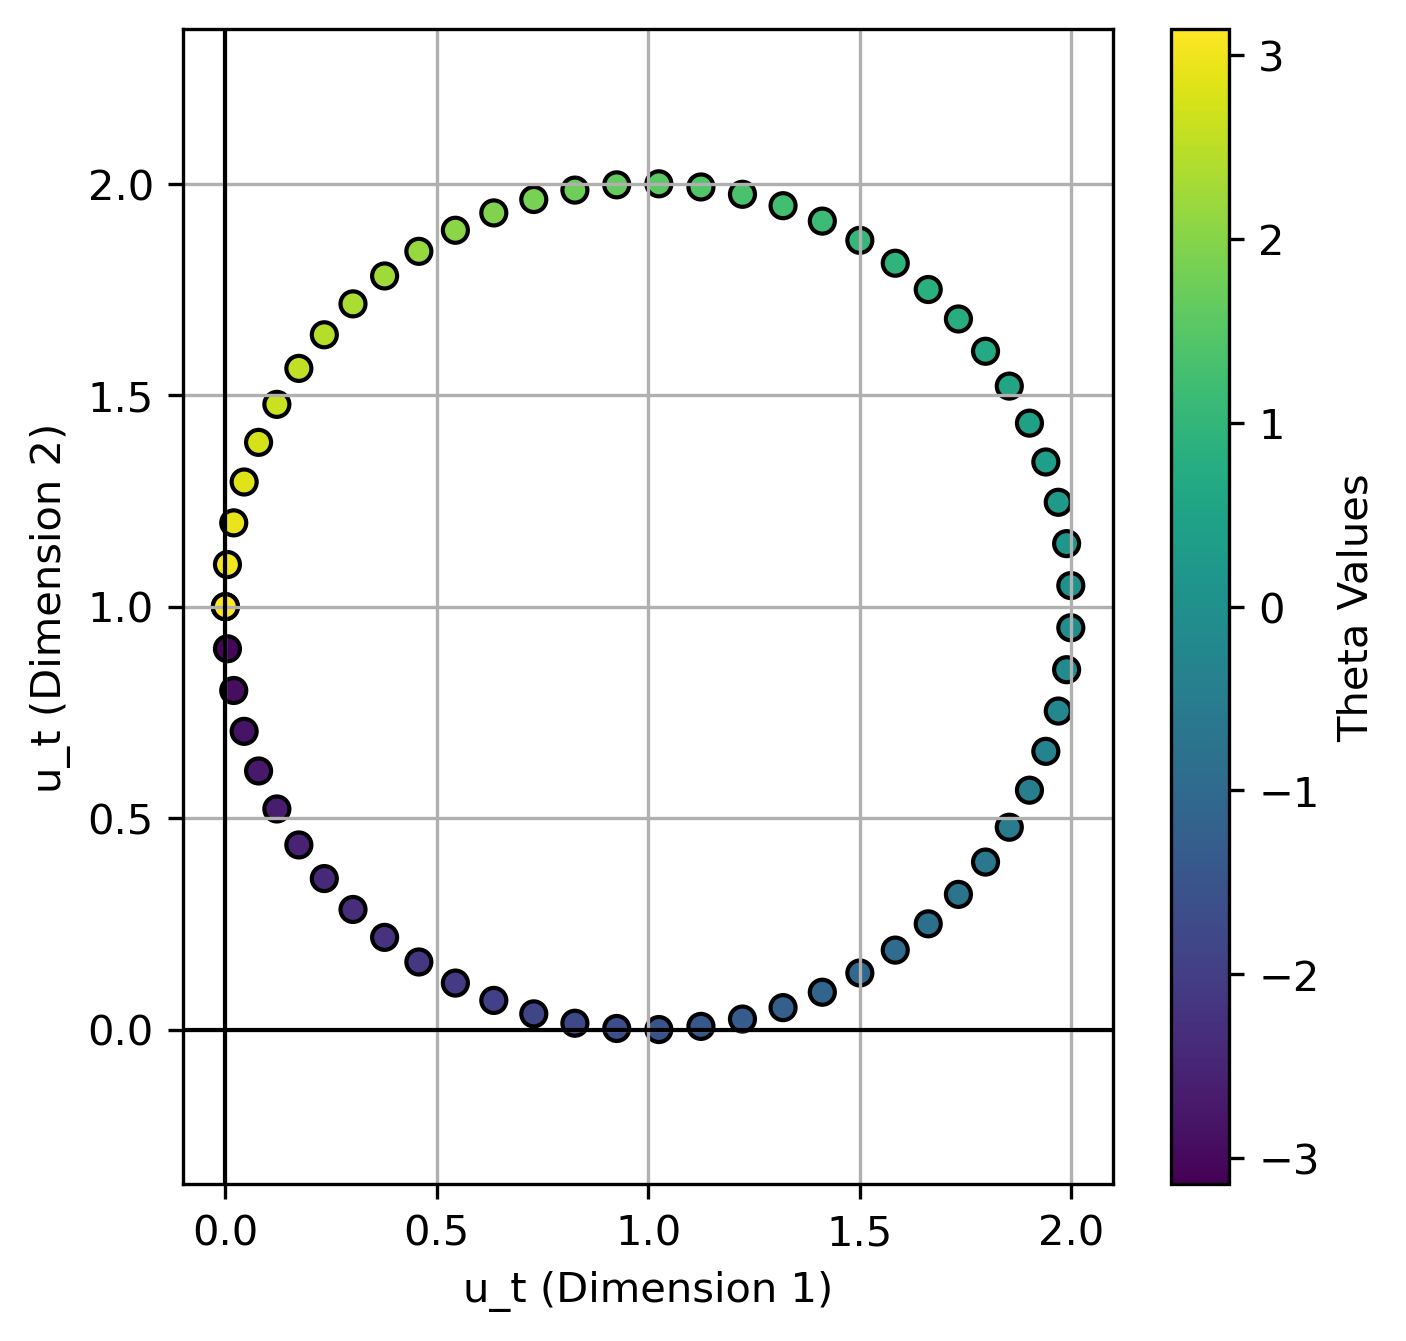
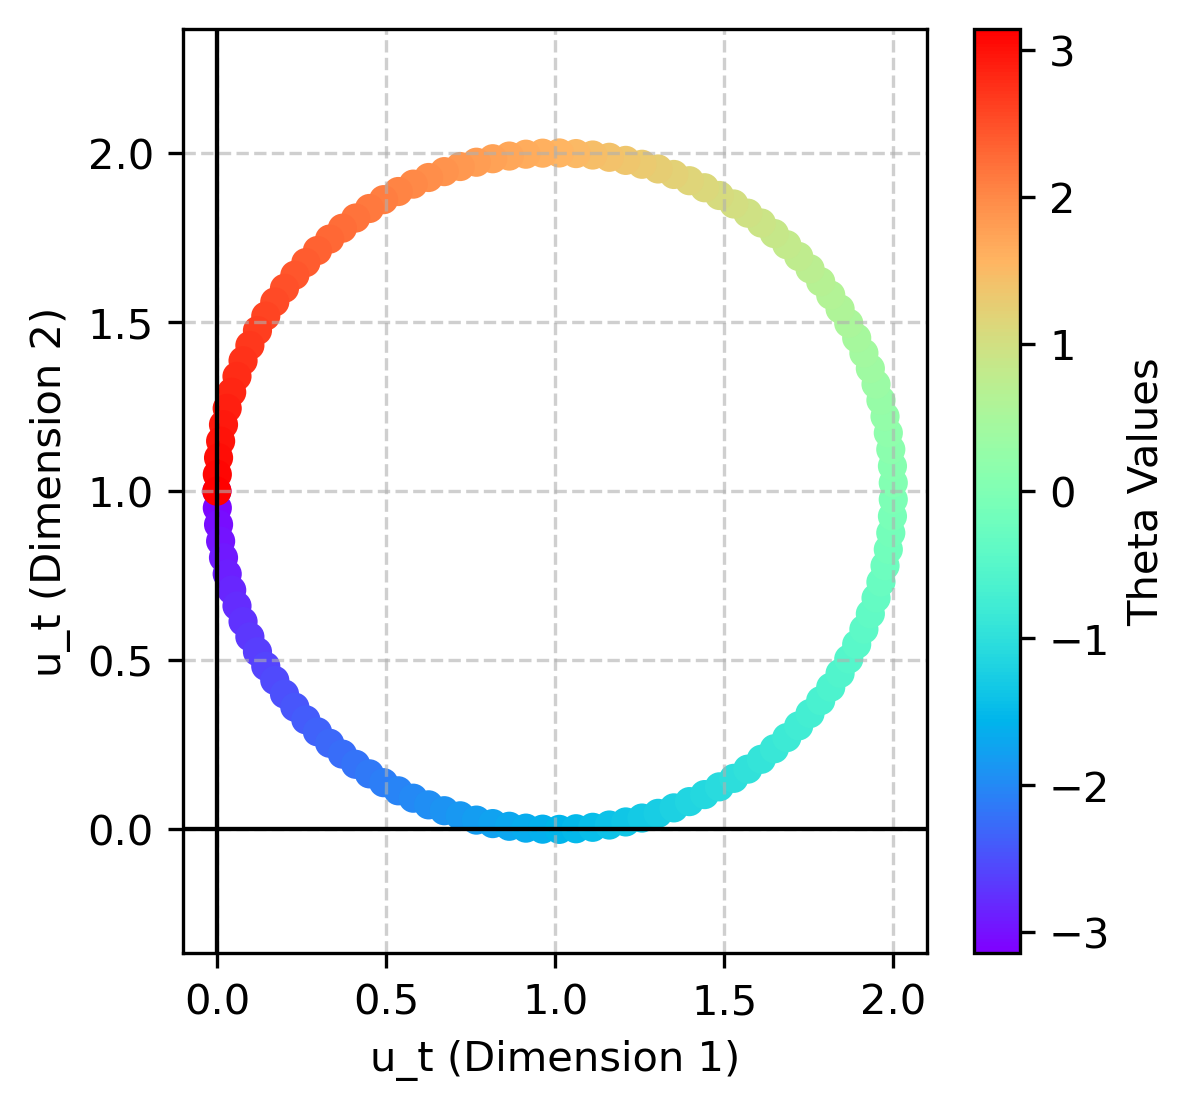
redo input plots

Changed region(s): [[0.0, 0.0, 0.99, 0.9802]]

diff --git a/other/PlotInput.py b/other/PlotInput.py
@@ -34,12 +34,12 @@ def generate_input(presence, theta, noise_level=0.0, T_init=0, T_stimi=400, T_de
     )
 
     # # Compute the 2D positions (cos and sin components) for all items
-    # cos_theta = torch.cos(theta_noisy/4+torch.pi/4)  # (steps, num_trials, max_item_num)
-    # sin_theta = torch.sin(theta_noisy/4+torch.pi/4)  # (steps, num_trials, max_item_num)
+    cos_theta = torch.cos(theta_noisy/4+torch.pi/4)  # (steps, num_trials, max_item_num)
+    sin_theta = torch.sin(theta_noisy/4+torch.pi/4)  # (steps, num_trials, max_item_num)
 
     # Compute the 2D positions (cos and sin components) for all items
-    cos_theta = torch.cos(theta_noisy)  # (steps, num_trials, max_item_num)
-    sin_theta = torch.sin(theta_noisy)  # (steps, num_trials, max_item_num)
+    # cos_theta = torch.cos(theta_noisy)  # (steps, num_trials, max_item_num)
+    # sin_theta = torch.sin(theta_noisy)  # (steps, num_trials, max_item_num)
 
     # Stack cos and sin into a single tensor along the last dimension
     # Then multiply by presence to zero-out absent items
@@ -63,7 +63,7 @@ def generate_input(presence, theta, noise_level=0.0, T_init=0, T_stimi=400, T_de
     return u_t_stack
 
 
-num_trials = 64
+num_trials = 128
 input_presence = torch.ones(num_trials,1)
 input_thetas = torch.linspace(-torch.pi, torch.pi, num_trials).unsqueeze(1) # for 1item
 
@@ -88,17 +88,21 @@ x = u_t[:, 0]
 y = u_t[:, 1]
 
 # Plot
-plt.figure(figsize=(5, 5))  # Set plot size to 5x5 inches
-scatter = plt.scatter(x, y, c=theta, cmap='viridis', edgecolor='k')
+plt.figure(figsize=(4, 4))  # Set plot size to 5x5 inches
+scatter = plt.scatter(x, y, c=theta, cmap='rainbow')
 plt.colorbar(scatter, label="Theta Values")  # Add colorbar to indicate theta values
 
-# Customize plot
-plt.axis('equal')  # Ensure equal scaling for x and y axes
-# plt.xlim(-2, 2)  # Set x-axis range
-# plt.ylim(-2, 2)  # Set y-axis range
 plt.xlabel("u_t (Dimension 1)")
 plt.ylabel("u_t (Dimension 2)")
-plt.grid(True)
+
+plt.axis('equal')
+# plt.title(f'PCA vs Decoded Points (2D) - Epoch {epoch}')
+# plt.legend()
+plt.axhline(0, color='black', linewidth=1, linestyle='-')  # Highlight x-axis
+plt.axvline(0, color='black', linewidth=1, linestyle='-')  # Highlight y-axis
+plt.grid(True, linestyle='--', alpha=0.6)
+
+
 
 # Highlight x and y axes
 plt.axhline(0, color='black', linewidth=1, linestyle='-')  # Highlight x-axis
@@ -106,5 +110,5 @@ plt.axvline(0, color='black', linewidth=1, linestyle='-')  # Highlight y-axis
 
 
 # Save the plot
-plt.savefig('./input_NotPI.png', dpi=300, bbox_inches='tight')
+plt.savefig('./other/input_PI_theta4.png', dpi=300, bbox_inches='tight')
 plt.close()
